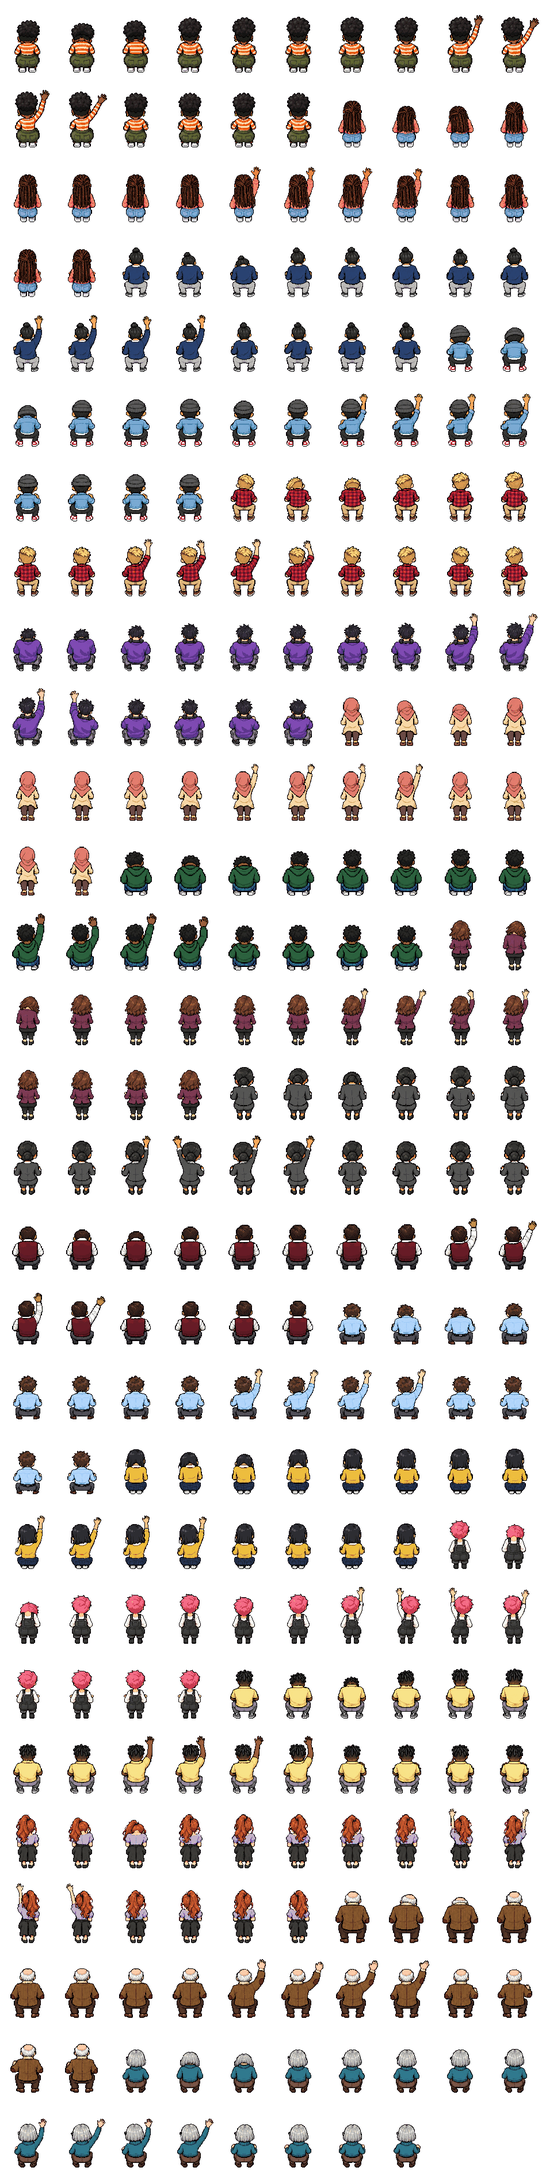
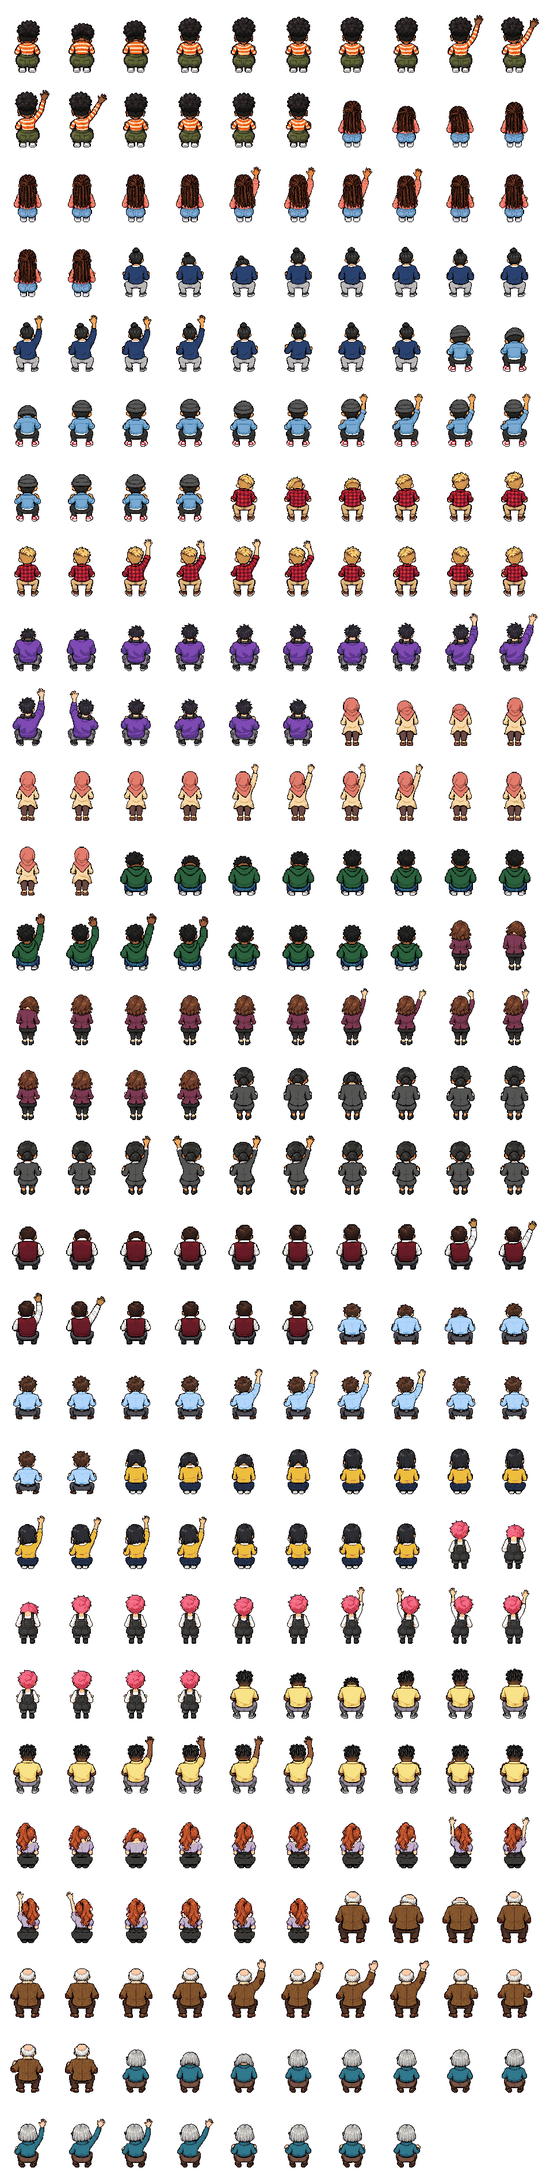
fix(sprites): ponytail 뒷모습 하체가 앞모습으로 보이던 것을 고치는 패치와 아틀라스 반영

diff --git a/tools/sprites/patch_ponytail_up.py b/tools/sprites/patch_ponytail_up.py
@@ -1,0 +1,185 @@
+"""
+ponytail 뒷모습(office-v5-up) 16칸의 하체를 뒷모습으로 고친다. v5-up 을 build.py 로 다시 뽑을 때마다 돌린다.
+
+생성 원본 `sprite-src/v5/chars/ponytail-up.png` 은 프롬프트("Knees point away … only the heels of the shoes may peek out")와
+달리 하체가 앞모습으로 앉은 모양이다 (허리 아래 무릎 둘·내려오는 정강이·발등 피부가 보이는 앞코 플랫슈즈. 16칸 전부).
+그래서 의자 등받이 위로 무릎이, 라운지 의자 아래로 앞코가 보이고, 하체가 길어 윗몸이 다른 인물보다 14줄 높다.
+
+고치는 법: 칸마다 줄 CUT 위(머리·블라우스·벨트·바지 맨 위·손)를 SHIFT 줄 내리고, 그 아래는 같은 상태 member 뒷모습 첫 칸의
+줄 SEAT 아래(엉덩이·뒤꿈치)를 ponytail 바지·신발 색으로 바꿔 붙인다 (밝기 분포를 ponytail idle 첫 칸의 바지·신발에 맞춘다).
+아틀라스의 기존 팔레트 색만 쓰고 ponytail up 16칸 밖의 팔레트 번호는 그대로 둔다 — 다른 인물 픽셀은 바뀌지 않는다.
+
+두 번 돌려도 된다: 줄 SEAT 아래에 피부색 픽셀이 칸마다 SKIN_MIN 개 이상이면(원본 발등) 고치고, 16칸 모두 0 이면 이미 고친
+것으로 보고 아무것도 쓰지 않는다 (종료 코드 0). 섞여 있으면 종료 코드 1.
+
+v5-up 을 다시 뽑을 때 순서:
+  1. python tools/sprites/build.py --recipe tools/sprites/recipes/office-v5-up.json \
+         --source-dir ~/.claude/jk-corp/sprite-src/v5 --out web/public/office
+  2. python tools/sprites/patch_ponytail_up.py --atlas web/public/office/office-v5-up
+  3. python tools/sprites/mask.py --recipe tools/sprites/recipes/office-v5-up-recolor.json \
+         --atlas web/public/office/office-v5-up --sample-atlas web/public/office/office-v5-down
+  4. python tools/sprites/check_edges.py --recipe tools/sprites/recipes/office-v5-up.json \
+         --source-dir ~/.claude/jk-corp/sprite-src/v5 --atlas web/public/office/office-v5-up   (고친 뒤에도 잘림 0개)
+`--out` 을 주면 그 PNG 에 쓰고, 없으면 `--atlas` 의 PNG 를 고쳐 쓴다.
+"""
+import argparse
+import json
+import sys
+from pathlib import Path
+
+import numpy as np
+from PIL import Image
+
+STATES = ['typing', 'raise-hand', 'idle', 'doze']
+CELL = (92, 128)
+CUT = 90  # ponytail 은 이 줄 위만 남긴다
+SHIFT = 14  # 윗몸을 내리는 줄 수 (ponytail 바지 맨 위 90 → member 엉덩이 맨 위 104)
+SEAT = 104  # member 칸에서 이 줄 아래(엉덩이·뒤꿈치)를 가져온다
+SKIN_MIN = 20  # 원본 칸의 줄 SEAT 아래 피부색 픽셀은 58~79 개
+
+
+def luminance(colors: np.ndarray) -> np.ndarray:
+    colors = colors.astype(float)
+    return 0.299 * colors[..., 0] + 0.587 * colors[..., 1] + 0.114 * colors[..., 2]
+
+
+def is_gray(pixels: np.ndarray) -> np.ndarray:
+    return (pixels.max(1).astype(int) - pixels.min(1)) < 40
+
+
+def skin_count(cell: np.ndarray) -> int:
+    lower = cell[SEAT:].astype(int)
+    r, g, b, a = lower[..., 0], lower[..., 1], lower[..., 2], lower[..., 3]
+    return int(((a > 0) & (r > 180) & (g > 120) & (r - b > 40)).sum())
+
+
+def solid_pixels(cell: np.ndarray, y0: int, y1: int) -> np.ndarray:
+    band = cell[y0:y1]
+    return band[band[..., 3] > 0][:, :3]
+
+
+def match_luminance(colors: np.ndarray, source_pixels: np.ndarray, target_pixels: np.ndarray, targets: np.ndarray) -> list:
+    """colors 마다 source 픽셀 밝기에서의 분위 → target 픽셀 밝기의 같은 분위 → 그 밝기에 가장 가까운 targets 색"""
+    source = np.sort(luminance(source_pixels))
+    target = np.sort(luminance(target_pixels))
+    target_colors = luminance(targets)
+    result = []
+    for color in colors:
+        quantile = np.searchsorted(source, luminance(color), side='right') / len(source)
+        want = target[min(int(quantile * (len(target) - 1)), len(target) - 1)]
+        result.append(targets[np.abs(target_colors - want).argmin()])
+    return result
+
+
+def seat_from(member: np.ndarray, pant_colors: np.ndarray, pant_pixels: np.ndarray, shoe_colors: np.ndarray, shoe_pixels: np.ndarray) -> np.ndarray:
+    """member 칸의 줄 SEAT 아래를 ponytail 바지·신발 색으로 바꾼 칸 (그 위는 투명)"""
+    seat = member.copy()
+    seat[:SEAT] = 0
+    solid = seat[..., 3] > 0
+    pixels = seat[solid][:, :3].astype(int)
+    colors = np.unique(pixels, axis=0)
+    is_navy = (colors[:, 2] - colors[:, 0] > 15) & (colors.max(1) > 45)  # 남색 바지
+    is_sneaker = (colors.max(1) - colors.min(1) < 40) & (colors.max(1) > 110)  # 흰·회색 운동화
+    is_outline = colors.max(1) <= 45
+    is_sweater = (colors[:, 0] > 120) & (colors[:, 2] < 110)  # 스웨터 끝단 → 바지 색
+    def pixels_of(selected: np.ndarray) -> np.ndarray:
+        return pixels[(pixels[:, None, :] == colors[selected][None, :, :]).all(2).any(1)]
+    table = {}
+    pant_like = is_navy | is_sweater
+    for color, mapped in zip(colors[pant_like], match_luminance(colors[pant_like], pixels_of(is_navy), pant_pixels, pant_colors[1:])):
+        table[tuple(color)] = mapped
+    for color, mapped in zip(colors[is_sneaker], match_luminance(colors[is_sneaker], pixels_of(is_sneaker), shoe_pixels, shoe_colors)):
+        table[tuple(color)] = mapped
+    for color in colors[is_outline]:
+        table[tuple(color)] = pant_colors[0]
+    for color in colors:  # 나머지(갈색 그림자 등)는 밝기가 가까운 바지 색
+        if tuple(color) not in table:
+            table[tuple(color)] = pant_colors[np.abs(luminance(pant_colors) - luminance(color)).argmin()]
+    for y, x in zip(*np.nonzero(solid)):
+        seat[y, x, :3] = table[tuple(seat[y, x, :3].astype(int))]
+    return seat
+
+
+def main() -> int:
+    parser = argparse.ArgumentParser(description=__doc__, formatter_class=argparse.RawDescriptionHelpFormatter)
+    parser.add_argument('--atlas', required=True, type=Path, help='office-v5-up 아틀라스 경로 (확장자 없이. .png·.json 을 읽는다)')
+    parser.add_argument('--out', type=Path, help='쓸 PNG (없으면 --atlas 의 PNG 를 고쳐 쓴다)')
+    args = parser.parse_args()
+    # Windows 콘솔 기본 인코딩(cp949)이면 한글 출력이 깨진다
+    sys.stdout.reconfigure(encoding='utf-8')
+    sys.stderr.reconfigure(encoding='utf-8')
+
+    data = json.loads(args.atlas.with_suffix('.json').read_text(encoding='utf-8'))
+    source = Image.open(args.atlas.with_suffix('.png'))
+    if source.mode != 'P':
+        print('팔레트 PNG 가 아니다', file=sys.stderr)
+        return 1
+    palette = np.array(source.getpalette()[:256 * 3]).reshape(-1, 3)
+    rgba = np.array(source.convert('RGBA'))
+    index = np.array(source)
+
+    def rect(name: str) -> tuple[int, int, int, int]:
+        frame = data['frames'][name]['frame']
+        if (frame['w'], frame['h']) != CELL:
+            raise SystemExit(f'{name}: 셀이 {CELL} 가 아니다 — 규격이 바뀌면 CUT·SHIFT·SEAT 를 다시 잰다')
+        return frame['x'], frame['y'], frame['w'], frame['h']
+
+    def cell(name: str) -> np.ndarray:
+        x, y, w, h = rect(name)
+        return rgba[y:y + h, x:x + w].copy()
+
+    names = [f'char/ponytail/up/{state}/{i}' for state in STATES for i in range(4)]
+    skins = [skin_count(cell(name)) for name in names]
+    if all(count == 0 for count in skins):
+        print('이미 고친 아틀라스다 (ponytail up 16칸 하체에 피부색 없음). 쓰지 않는다')
+        return 0
+    if not all(count >= SKIN_MIN for count in skins):
+        print(f'원본도 고친 것도 아니다 — 칸마다 하체 피부색 픽셀 {skins}', file=sys.stderr)
+        return 1
+
+    # ponytail 바지·신발 색: idle 첫 칸의 줄 90~110 무채색(바지), 줄 116~124 무채색(신발). 가장 어두운 바지 색이 외곽선.
+    # 바지 밝기 분포에서는 순검정(외곽선)을 뺀다 — 넣으면 엉덩이가 더 어두운 색으로 칠해진다
+    idle = cell('char/ponytail/up/idle/0')
+    pant_pixels = solid_pixels(idle, 90, 110)
+    pant_pixels = pant_pixels[is_gray(pant_pixels)]
+    shoe_pixels = solid_pixels(idle, 116, 125)
+    shoe_pixels = shoe_pixels[is_gray(shoe_pixels)]
+    pant_colors = np.unique(pant_pixels, axis=0)
+    pant_pixels = pant_pixels[pant_pixels.max(1) > 0]
+    pant_colors = pant_colors[np.argsort(luminance(pant_colors))]
+    shoe_colors = np.unique(shoe_pixels, axis=0)
+    shoe_colors = shoe_colors[np.argsort(luminance(shoe_colors))]
+
+    color_index = {}
+    for i, color in enumerate(palette):
+        if i > 0:
+            color_index.setdefault(tuple(int(v) for v in color), i)
+    for state in STATES:
+        seat = seat_from(cell(f'char/member/up/{state}/0'), pant_colors, pant_pixels, shoe_colors, shoe_pixels)
+        for i in range(4):
+            name = f'char/ponytail/up/{state}/{i}'
+            x, y, w, h = rect(name)
+            old = cell(name)
+            new = seat.copy()
+            upper = np.zeros_like(old)
+            upper[SHIFT:CUT + SHIFT] = old[:CUT]
+            new[upper[..., 3] > 0] = upper[upper[..., 3] > 0]
+            patched = np.zeros((h, w), np.uint8)
+            for py, px in zip(*np.nonzero(new[..., 3] > 0)):
+                key = tuple(int(v) for v in new[py, px, :3])
+                if key not in color_index:
+                    print(f'{name}: 팔레트에 없는 색 {key}', file=sys.stderr)
+                    return 1
+                patched[py, px] = color_index[key]
+            index[y:y + h, x:x + w] = patched
+
+    out = args.out or args.atlas.with_suffix('.png')
+    image = Image.fromarray(index, 'P')
+    image.putpalette(source.getpalette())
+    image.save(out, optimize=True, transparency=0)
+    print(f'썼다: {out} (ponytail up {len(names)}칸)')
+    return 0
+
+
+if __name__ == '__main__':
+    sys.exit(main())

diff --git a/.claude/rules/office-art.md b/.claude/rules/office-art.md
@@ -22,8 +22,8 @@ paths:
 ## 구조
 
 - **목록 아바타**는 그 세션 도트 인물 머리 그림이다 (`characterArt.ts` 의 `headImageUrl`, 44px 를 22px 칩에. 조합마다 data URL 하나, `.avatar.head`). 폰·사무실 숨김에서도 목록 때문에 아틀라스를 읽는다. 읽기 전·못 읽음·마스크에 없는 인물이면 빈 `--avatar-bg` 칩. `web/src/dotCharacter.ts` 는 세션 ID 해시(`hashOf`, FNV-1a)로 도트 인물 프리셋을 고른다 (순수, `dotCharacter.test.ts`). `web/src/CharacterPicker.tsx` 는 ✎ 이름 모달의 인물 고르기: "Auto"(해시로 고른 리더 풀 인물) + 아틀라스 인물 전부를 정면 `office-v5-down` 아틀라스 PNG(255색 팔레트)를 배경으로 잘라(idle 첫 칸 위쪽 80px) 보인다. 인물을 고르면(자동이 아니면) 아래에 큰 미리보기(idle 첫 칸 위쪽 96px 를 색을 바꿔 2배)와 머리(기본색 + 8색 `HAIR_COLORS`)·윗옷(기본색 + 10색 `TOP_COLORS`) 색 칸이 나온다. 기본색 칸은 점선 테두리이고 값은 null. 인물을 바꾸면 색은 기본색으로 돌아간다. 저장하면 모달이 `PATCH` 이름 다음에 인물·색 중 하나라도 바뀌었을 때만 `PUT /api/sessions/:id/character` 를 부른다 (자동이면 `{ id: null }`). 외부 세션도 색은 같고 **책상 앞면 회색 명패**(자리 카드에는 "External session")로 구분 (캐릭터를 회색으로 하면 사무실이 죽어 보여서 바꿈). 목록 머리·인물 고르기는 정면 아틀라스와 정면 마스크(`office-v5-down-recolor`)를 쓴다 (`characterArt.ts` 의 `CHARACTER_ATLAS`)
-- `tools/sprites/` — 사무실 도트 스프라이트 파이프라인 (Python numpy·Pillow): 레시피(`recipes/*.json`)대로 생성 원본(저장소 밖 `~/.claude/jk-corp/sprite-src/<판>/`, `--source-dir` 로 넘김)을 규격 셀로 정규화·최빈색 축소·알파 확인해 아틀라스를 만들고, 반복 타일은 이음매 없이 반복되는 구간을 찾아 자른다 (`build.py`. 타일 옵션은 `tools/sprites/README.md`), 인물 색 바꾸기 마스크 `mask.py`(레시피 `recipes/office-v3-recolor.json`·`office-v5-*-recolor.json`: 인물마다 머리·윗옷의 표본 상자·세로 범위·RGB 거리 한도·뺄 상자. 방향 판(v5 up·right)은 `--sample-atlas` 로 정면 판에서 표본 색을 모은다. 아틀라스는 안 바꾼다. 아틀라스 인물 그림을 다시 만들면 마스크도 다시 만들고 미리보기 `--preview` 로 피부·눈·바지가 섞이지 않았는지 본다 — 위치만으로 고르면 섞이고, 검은 머리는 외곽선·눈동자와 색이 같아 가장 밝은 채널 26 이하는 늘 뺀다), 머리 위 상태 아이콘·짝 사이 칸막이를 코드로 찍는 `draw_icons.py`(생성하지 않는 그림. 결과는 원본 폴더의 `drawn.png`), 칸막이 블록 모듈을 생성한 책상 그림에서 짓는 `draw_blocks.py`(결과 `blocks.png`. 생성 책상은 옆면이 비스듬해 이어 붙이면 이음매가 보여서 빈 세로 줄을 반복해 직사각형으로 펴고 모니터·키보드만 옮긴다), 잘림 검사 `check_edges.py`(인물 프레임이 셀 가장자리에, 인물·소품이 원본 칸 경계에 닿은 곳을 센다. 상자로 자르는 소품은 상자 경계·바로 밖·그림 끝. v5 넷·v6 거리는 0 개 — 아틀라스를 다시 만들면 돌린다), 퇴근 거리 자리 메타를 인물 아틀라스에서 재는 `street_seats.py`(옆모습 앉은 높이 `sideSeatLift`·창 얼굴 머리 상자 `headBox` 를 `--write` 로 v6 레시피 `jkCorp.street` 에 쓴다. 인물 그림을 다시 만들면 이것 → build.py), 라운지 자리 메타의 옆모습 사람 높이를 재는 `lounge_seats.py`(`sideOffsetY` 를 `--write` 로 v5-props 레시피 `jkCorp.lounge` 에 쓰고, `--preview <폴더>` 는 18명을 모든 자리에 화면과 같은 순서로 앉힌 그림. 자리 좌표·덮어 그릴 사각형 `front` 는 레시피에 손으로 적는다. 인물 그림이나 자리를 고치면 이것 → build.py → 미리보기), 생성 래퍼 `gen.sh`(API 키 env 제거, `SPRITE_GEN` 에 실행 파일 경로)·프롬프트 틀 `prompts/`. 격자 한 장에서 상태 행 자르기(`grid`)·덩어리 단위 자르기(`slice: "figure"` — 칸 경계로 자르면 칸을 넘은 머리·든 손·소품 끝이 잘린다. v5 넷)·방향(`direction`)·인물별 고정 배율(`scale`)·팔레트 PNG(`palette`)·모니터 꺼짐 그림(`screenOff`)·타일 색조(`tone`)·화면용 메타(`jkCorp`)·격자 칸 대신 원본 px 상자로 자르기(`box`)·불 켜진 유리만 칠한 그림(`glow`)·창 구멍 메타(`windows`)·다리 줄을 늘이고 줄인 높이 변형(`lifts`)은 레시피 옵션이다 (옵션을 더해도 v0~v5 레시피 결과는 바이트 단위로 그대로). 규격·단계 계획·생성 절차는 `docs/plans/2026-10-22-office-sprites-design.md`
-- `web/public/office/` — `tools/sprites/build.py` 결과 (아틀라스 `<판>.png`·PixiJS 8 Spritesheet JSON `<판>.json`(`meta.jkCorp` 에 규격·fps·타일·소품 메타)·반복 타일 `<판>-tile-*.png`). Vite 가 `web/dist/office/` 로 복사하고 서버가 `/office/…` 로 제공한다. 화면은 `office-v5-*`(아래)와 `office-v2` 일부를 쓴다. `office-v3`(인물 18명 × typing·raise-hand·idle·doze 정면 + 책상·의자. 앞 9명은 v1 원본 그대로 다시 묶었고 새 9명은 `sprite-src/v3`. 아틀라스 PNG 약 2.3MB)와 `office-v3-recolor` 는 화면이 읽지 않는다 — `office-v5-down` 이 같은 칸·같은 프레임 이름의 255색 판이다. `office-v4`(꾸미기 소품 20종 아틀라스 약 0.1MB, `tools/sprites/recipes/office-v4.json`)는 화면이 읽지 않는다 — 고정 꾸미기는 v4 소품 중 10개를 옮겨 넣은 것을 쓴다: 7개(정수기·커피머신·휴지통·복합기·시계·화이트보드·풍경화)는 `office-v5-props`, 벽 장식 3개(게시판 `wall-corkboard`·포스터 `wall-poster`·액자 둘 `wall-photos`)는 따로 묶은 `office-v5-wall`(레시피 `office-v5-wall.json`, `--source-dir` 은 v4 원본, 덩어리 단위로 자르고 팔레트 없이 RGBA 18KB — v4 프레임과 픽셀이 같다). **v5-props 에 소품을 더하지 말고 따로 묶는 이유**: 255색 팔레트(median cut)를 아틀라스 전체로 다시 잡아 기존 소품 51개가 모두 바뀐다 (이 3개를 넣어 보니 불투명 픽셀 57% 가 바뀌고 RGB 거리 평균 6.9·최대 109, 포스트잇 회색 → 노랑, 원탁 의자 다리 회갈색 → 주황처럼 눈에 띄었다). 나머지(산세베리아·코트걸이·스탠드·사물함·몬스테라 등)는 놓을 자리가 정해지면 쓰려고 남겨 둔다. 환경은 `office-v2`(소품 16개 아틀라스 약 0.14MB: 화분 둘·책장 둘·부스·조명·머그·헤드폰·집과 가로등 × 시간대 4. 반복 타일 10개: 벽(창 유리 투명)·창밖 4시간대·나무 바닥·그룹 카펫·섬 러그·Focus Zone 카펫·보도. 타일 메타에 맨 위·아래 줄 최빈색 `top`·`bottom` 과 벽의 투명 행 `glass`) 중 벽·창밖 타일과 화분 둘만 화면이 읽는다 (나무 바닥·그룹 카펫·섬 러그·Focus Zone 카펫 타일과 책장·부스·조명·머그·헤드폰은 v5 로, 보도 타일과 집·가로등은 v6 퇴근 거리로 바뀌어 읽지 않는다). `office-v0`·`office-v1`(인물 9명 판. 벽·바닥 타일 포함)은 앞 판으로 남겨 두었고 화면은 읽지 않는다. **`office-v5-*` 는 ZEP 스타일 4방향 판이고 화면이 인물·책상·의자·칸막이·부스·상태 아이콘·바닥을 여기서 읽는다** (라운지 소품·책상 소품 `item-*`·v4 에서 옮긴 소품은 고정 꾸미기가 놓는다): 방향별 아틀라스 `office-v5-down`(정면 = v3 와 같은 원본·같은 프레임 이름 `char/<id>/<상태>`)·`office-v5-up`(뒷모습)·`office-v5-right`(옆모습, left 는 좌우 반전) — 새 방향은 `char/<id>/<방향>/<상태>`. 셀은 모든 프레임이 가장자리에 닿지 않는 크기로 정면 80×132(기준선 128, 발 중심 x 40. v3 64×128 보다 양옆 8·위 4 넓다), 뒷모습 92×128(기준선 124, 발 중심 46), 옆모습 88×128(기준선 124, 등 x 18) (`meta.jkCorp.spec`) — 와 `office-v5-props`(칸막이 블록 모듈 `block-pair`(마주 보는 한 짝 96×96)·`block-end-right`·`block-end-left`·`block-lead`(지휘자 옆 책상 + 수납 판)(+ `-off`)과 블록 안 좌표·겹침 순서 `meta.jkCorp.block`, 따로 그린 책상 `desk-down`·`desk-up`·`desk-right`(+ `-off` 꺼짐 그림과 `screen` 메타)·의자 3방향·`partition-v`·`booth-navy`·라운지·책상 소품 `item-*`·상태 아이콘 `icon-*`·v4 소품 7개, 타일 `corridor`·`desk-carpet`·`focus-navy`, `meta.jkCorp.seat` 에 자리 안 좌표·겹침 순서, `meta.jkCorp.lounge` 에 라운지 소품에 사람이 앉는 자리 — 원탁 세트 4(정면·옆모습 둘·뒷모습)·소파 2·안락의자 1, 자리마다 앵커 좌표·방향·사람 위에 다시 덮어 그릴 소품 사각형 `front`, 옆모습 인물별 y 보정 `sideOffsetY`(idle·doze). 규칙은 설계 문서 "라운지 자리"). 모두 255색 팔레트 PNG(인물 한 장 약 0.55MB). 규격·겹침 순서는 설계 문서 "4방향 (v5)". 인물 색 바꾸기 마스크는 방향마다 `office-v5-<방향>-recolor.png`(그 방향 아틀라스와 같은 크기, R = 머리·G = 윗옷 가중치, 알파 늘 255 — 0 이면 canvas 가 premultiply 로 값을 잃는다. RGBA 그대로)·`office-v5-<방향>-recolor.json`(인물 18명 전부의 그 방향 머리·윗옷 기본색. 마스크에 없는 인물은 목록 머리 그림이 빈 칩이 되므로 인물을 더하면 마스크도 더한다) (`tools/sprites/mask.py` 결과). **`office-v6-street` 는 퇴근 거리(Off Duty 띠) 판이고 화면이 읽는다** (Office.tsx 의 "퇴근 거리"): 장소 4종(버스 정류장·카페·공원·집 4색)·거리 소품·불빛 그림 `-glow`·카페 의자 높이 변형 `cafe-chair-h40`…`h49`, 타일 `sidewalk`·`curb-road`·`grass` (255색 아틀라스 125KB). 배치·자리·시간대·폭 단계·집 반복 메타는 `meta.jkCorp.street`, 집 창은 `meta.jkCorp.props['prop/house-*'].windows`. 인물은 v5 down·right 앉은 그림을 쓴다. 규칙은 설계 문서 "퇴근 거리 (v6)"
+- `tools/sprites/` — 사무실 도트 스프라이트 파이프라인 (Python numpy·Pillow): 레시피(`recipes/*.json`)대로 생성 원본(저장소 밖 `~/.claude/jk-corp/sprite-src/<판>/`, `--source-dir` 로 넘김)을 규격 셀로 정규화·최빈색 축소·알파 확인해 아틀라스를 만들고, 반복 타일은 이음매 없이 반복되는 구간을 찾아 자른다 (`build.py`. 타일 옵션은 `tools/sprites/README.md`), 인물 색 바꾸기 마스크 `mask.py`(레시피 `recipes/office-v3-recolor.json`·`office-v5-*-recolor.json`: 인물마다 머리·윗옷의 표본 상자·세로 범위·RGB 거리 한도·뺄 상자. 방향 판(v5 up·right)은 `--sample-atlas` 로 정면 판에서 표본 색을 모은다. 아틀라스는 안 바꾼다. 아틀라스 인물 그림을 다시 만들면 마스크도 다시 만들고 미리보기 `--preview` 로 피부·눈·바지가 섞이지 않았는지 본다 — 위치만으로 고르면 섞이고, 검은 머리는 외곽선·눈동자와 색이 같아 가장 밝은 채널 26 이하는 늘 뺀다), 머리 위 상태 아이콘·짝 사이 칸막이를 코드로 찍는 `draw_icons.py`(생성하지 않는 그림. 결과는 원본 폴더의 `drawn.png`), 칸막이 블록 모듈을 생성한 책상 그림에서 짓는 `draw_blocks.py`(결과 `blocks.png`. 생성 책상은 옆면이 비스듬해 이어 붙이면 이음매가 보여서 빈 세로 줄을 반복해 직사각형으로 펴고 모니터·키보드만 옮긴다), 잘림 검사 `check_edges.py`(인물 프레임이 셀 가장자리에, 인물·소품이 원본 칸 경계에 닿은 곳을 센다. 상자로 자르는 소품은 상자 경계·바로 밖·그림 끝. v5 넷·v6 거리는 0 개 — 아틀라스를 다시 만들면 돌린다), ponytail 뒷모습 하체를 고치는 `patch_ponytail_up.py`(생성 원본 `sprite-src/v5/chars/ponytail-up.png` 이 프롬프트의 "무릎은 앞쪽, 뒤꿈치만 보인다" 와 달리 하체가 앞모습으로 앉은 그림이다 — 무릎 둘·내려오는 정강이·발등이 보이는 앞코 플랫슈즈, 16칸 전부. 그대로면 의자 등받이 위로 무릎이, 라운지 의자 아래로 앞코가 보이고 윗몸이 14줄 높다. 칸마다 허리 위를 14줄 내리고 그 아래에 같은 상태 member 뒷모습의 엉덩이·뒤꿈치를 ponytail 바지·신발 색으로 바꿔 붙인다. 아틀라스의 기존 팔레트 색만 써서 다른 인물 픽셀·팔레트 번호는 그대로다. **v5-up 을 build.py 로 다시 뽑을 때마다 build.py → 이것 → mask.py(up 마스크) → check_edges.py 순서로 돌린다** — 빠뜨리면 무릎이 돌아오고, 마스크를 안 다시 만들면 고른 머리·윗옷 색이 14줄 어긋난다. 두 번 돌려도 된다: 하체에 원본 발등 피부색이 없으면 이미 고친 것으로 보고 쓰지 않는다. 원본을 다시 생성해 고친다면 같은 프롬프트로 이미 한 번 어긴 것이라 하체 금지(무릎·정강이·발등·앞코가 보이지 않게)를 더 세게 쓰고, 제대로 나오면 이 패치를 지운다), 퇴근 거리 자리 메타를 인물 아틀라스에서 재는 `street_seats.py`(옆모습 앉은 높이 `sideSeatLift`·창 얼굴 머리 상자 `headBox` 를 `--write` 로 v6 레시피 `jkCorp.street` 에 쓴다. 인물 그림을 다시 만들면 이것 → build.py), 라운지 자리 메타의 옆모습 사람 높이를 재는 `lounge_seats.py`(`sideOffsetY` 를 `--write` 로 v5-props 레시피 `jkCorp.lounge` 에 쓰고, `--preview <폴더>` 는 18명을 모든 자리에 화면과 같은 순서로 앉힌 그림. 자리 좌표·덮어 그릴 사각형 `front` 는 레시피에 손으로 적는다. 인물 그림이나 자리를 고치면 이것 → build.py → 미리보기), 생성 래퍼 `gen.sh`(API 키 env 제거, `SPRITE_GEN` 에 실행 파일 경로)·프롬프트 틀 `prompts/`. 격자 한 장에서 상태 행 자르기(`grid`)·덩어리 단위 자르기(`slice: "figure"` — 칸 경계로 자르면 칸을 넘은 머리·든 손·소품 끝이 잘린다. v5 넷)·방향(`direction`)·인물별 고정 배율(`scale`)·팔레트 PNG(`palette`)·모니터 꺼짐 그림(`screenOff`)·타일 색조(`tone`)·화면용 메타(`jkCorp`)·격자 칸 대신 원본 px 상자로 자르기(`box`)·불 켜진 유리만 칠한 그림(`glow`)·창 구멍 메타(`windows`)·다리 줄을 늘이고 줄인 높이 변형(`lifts`)은 레시피 옵션이다 (옵션을 더해도 v0~v5 레시피 결과는 바이트 단위로 그대로). 규격·단계 계획·생성 절차는 `docs/plans/2026-10-22-office-sprites-design.md`
+- `web/public/office/` — `tools/sprites/build.py` 결과 (아틀라스 `<판>.png`·PixiJS 8 Spritesheet JSON `<판>.json`(`meta.jkCorp` 에 규격·fps·타일·소품 메타)·반복 타일 `<판>-tile-*.png`). Vite 가 `web/dist/office/` 로 복사하고 서버가 `/office/…` 로 제공한다. 화면은 `office-v5-*`(아래)와 `office-v2` 일부를 쓴다. `office-v3`(인물 18명 × typing·raise-hand·idle·doze 정면 + 책상·의자. 앞 9명은 v1 원본 그대로 다시 묶었고 새 9명은 `sprite-src/v3`. 아틀라스 PNG 약 2.3MB)와 `office-v3-recolor` 는 화면이 읽지 않는다 — `office-v5-down` 이 같은 칸·같은 프레임 이름의 255색 판이다. `office-v4`(꾸미기 소품 20종 아틀라스 약 0.1MB, `tools/sprites/recipes/office-v4.json`)는 화면이 읽지 않는다 — 고정 꾸미기는 v4 소품 중 10개를 옮겨 넣은 것을 쓴다: 7개(정수기·커피머신·휴지통·복합기·시계·화이트보드·풍경화)는 `office-v5-props`, 벽 장식 3개(게시판 `wall-corkboard`·포스터 `wall-poster`·액자 둘 `wall-photos`)는 따로 묶은 `office-v5-wall`(레시피 `office-v5-wall.json`, `--source-dir` 은 v4 원본, 덩어리 단위로 자르고 팔레트 없이 RGBA 18KB — v4 프레임과 픽셀이 같다). **v5-props 에 소품을 더하지 말고 따로 묶는 이유**: 255색 팔레트(median cut)를 아틀라스 전체로 다시 잡아 기존 소품 51개가 모두 바뀐다 (이 3개를 넣어 보니 불투명 픽셀 57% 가 바뀌고 RGB 거리 평균 6.9·최대 109, 포스트잇 회색 → 노랑, 원탁 의자 다리 회갈색 → 주황처럼 눈에 띄었다). 나머지(산세베리아·코트걸이·스탠드·사물함·몬스테라 등)는 놓을 자리가 정해지면 쓰려고 남겨 둔다. 환경은 `office-v2`(소품 16개 아틀라스 약 0.14MB: 화분 둘·책장 둘·부스·조명·머그·헤드폰·집과 가로등 × 시간대 4. 반복 타일 10개: 벽(창 유리 투명)·창밖 4시간대·나무 바닥·그룹 카펫·섬 러그·Focus Zone 카펫·보도. 타일 메타에 맨 위·아래 줄 최빈색 `top`·`bottom` 과 벽의 투명 행 `glass`) 중 벽·창밖 타일과 화분 둘만 화면이 읽는다 (나무 바닥·그룹 카펫·섬 러그·Focus Zone 카펫 타일과 책장·부스·조명·머그·헤드폰은 v5 로, 보도 타일과 집·가로등은 v6 퇴근 거리로 바뀌어 읽지 않는다). `office-v0`·`office-v1`(인물 9명 판. 벽·바닥 타일 포함)은 앞 판으로 남겨 두었고 화면은 읽지 않는다. **`office-v5-*` 는 ZEP 스타일 4방향 판이고 화면이 인물·책상·의자·칸막이·부스·상태 아이콘·바닥을 여기서 읽는다** (라운지 소품·책상 소품 `item-*`·v4 에서 옮긴 소품은 고정 꾸미기가 놓는다): 방향별 아틀라스 `office-v5-down`(정면 = v3 와 같은 원본·같은 프레임 이름 `char/<id>/<상태>`)·`office-v5-up`(뒷모습. ponytail 16칸은 `patch_ponytail_up.py` 로 하체를 고친 그림)·`office-v5-right`(옆모습, left 는 좌우 반전) — 새 방향은 `char/<id>/<방향>/<상태>`. 셀은 모든 프레임이 가장자리에 닿지 않는 크기로 정면 80×132(기준선 128, 발 중심 x 40. v3 64×128 보다 양옆 8·위 4 넓다), 뒷모습 92×128(기준선 124, 발 중심 46), 옆모습 88×128(기준선 124, 등 x 18) (`meta.jkCorp.spec`) — 와 `office-v5-props`(칸막이 블록 모듈 `block-pair`(마주 보는 한 짝 96×96)·`block-end-right`·`block-end-left`·`block-lead`(지휘자 옆 책상 + 수납 판)(+ `-off`)과 블록 안 좌표·겹침 순서 `meta.jkCorp.block`, 따로 그린 책상 `desk-down`·`desk-up`·`desk-right`(+ `-off` 꺼짐 그림과 `screen` 메타)·의자 3방향·`partition-v`·`booth-navy`·라운지·책상 소품 `item-*`·상태 아이콘 `icon-*`·v4 소품 7개, 타일 `corridor`·`desk-carpet`·`focus-navy`, `meta.jkCorp.seat` 에 자리 안 좌표·겹침 순서, `meta.jkCorp.lounge` 에 라운지 소품에 사람이 앉는 자리 — 원탁 세트 4(정면·옆모습 둘·뒷모습)·소파 2·안락의자 1, 자리마다 앵커 좌표·방향·사람 위에 다시 덮어 그릴 소품 사각형 `front`, 옆모습 인물별 y 보정 `sideOffsetY`(idle·doze). 규칙은 설계 문서 "라운지 자리"). 모두 255색 팔레트 PNG(인물 한 장 약 0.55MB). 규격·겹침 순서는 설계 문서 "4방향 (v5)". 인물 색 바꾸기 마스크는 방향마다 `office-v5-<방향>-recolor.png`(그 방향 아틀라스와 같은 크기, R = 머리·G = 윗옷 가중치, 알파 늘 255 — 0 이면 canvas 가 premultiply 로 값을 잃는다. RGBA 그대로)·`office-v5-<방향>-recolor.json`(인물 18명 전부의 그 방향 머리·윗옷 기본색. 마스크에 없는 인물은 목록 머리 그림이 빈 칩이 되므로 인물을 더하면 마스크도 더한다) (`tools/sprites/mask.py` 결과). **`office-v6-street` 는 퇴근 거리(Off Duty 띠) 판이고 화면이 읽는다** (Office.tsx 의 "퇴근 거리"): 장소 4종(버스 정류장·카페·공원·집 4색)·거리 소품·불빛 그림 `-glow`·카페 의자 높이 변형 `cafe-chair-h40`…`h49`, 타일 `sidewalk`·`curb-road`·`grass` (255색 아틀라스 125KB). 배치·자리·시간대·폭 단계·집 반복 메타는 `meta.jkCorp.street`, 집 창은 `meta.jkCorp.props['prop/house-*'].windows`. 인물은 v5 down·right 앉은 그림을 쓴다. 규칙은 설계 문서 "퇴근 거리 (v6)"
 
 ## 확인하지 못한 것
 
